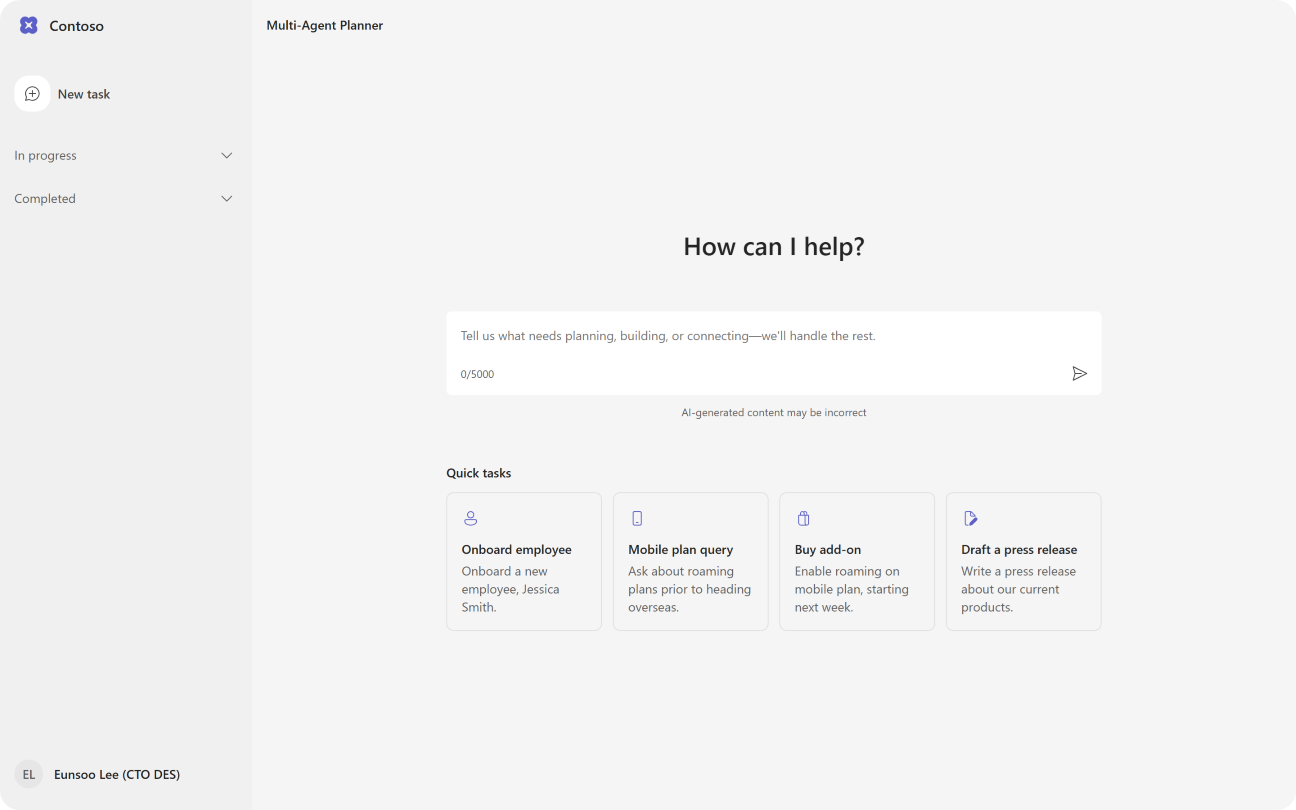
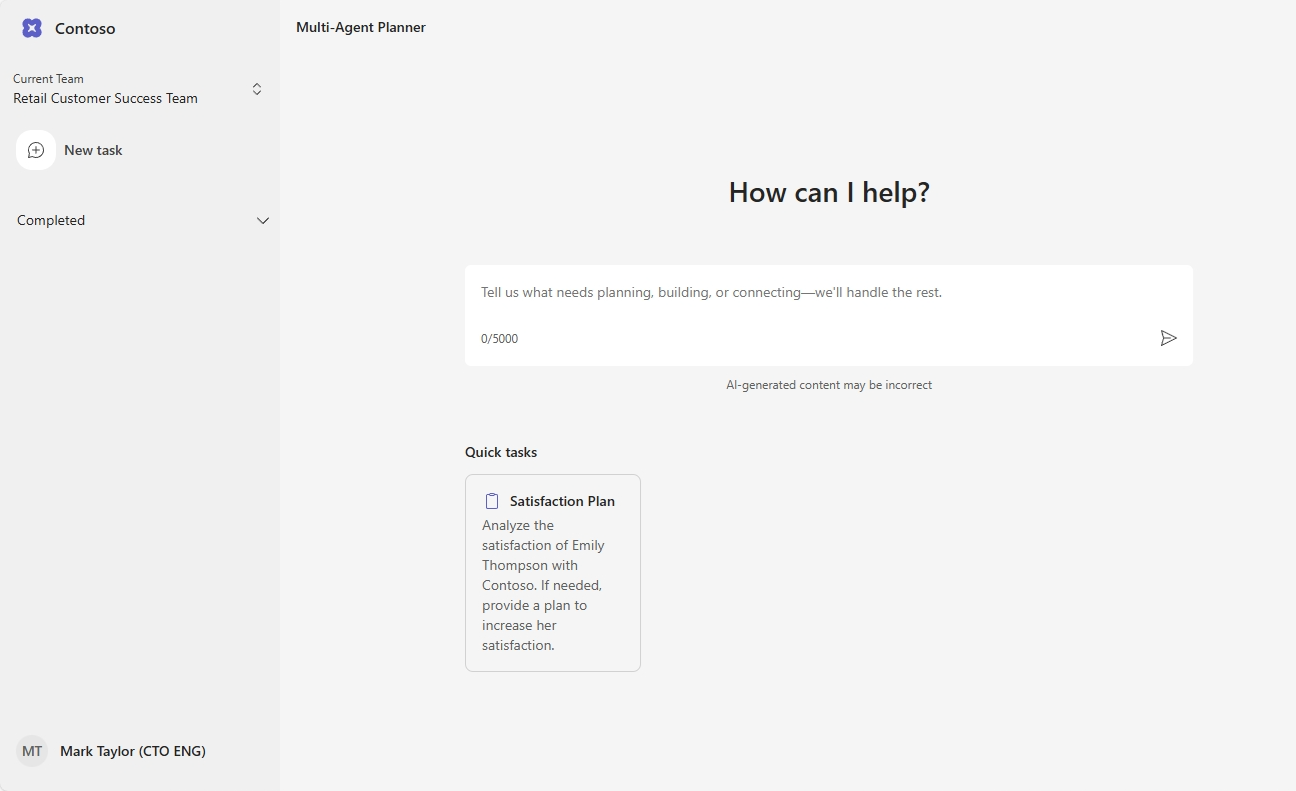
Remove sample questions, change app image in readme

diff --git a/README.md b/README.md
@@ -29,11 +29,6 @@ The solution leverages Azure OpenAI Service, Azure Container Apps, Azure Cosmos 
 |![image](./docs/images/readme/agent_flow.png)|
 |---|
 
-### How to customize
-If you'd like to customize the solution accelerator, here are some common areas to start:
-
-[Custom scenario](./docs/CustomizeSolution.md)
-
 <br/>
 
 ### Additional resources
